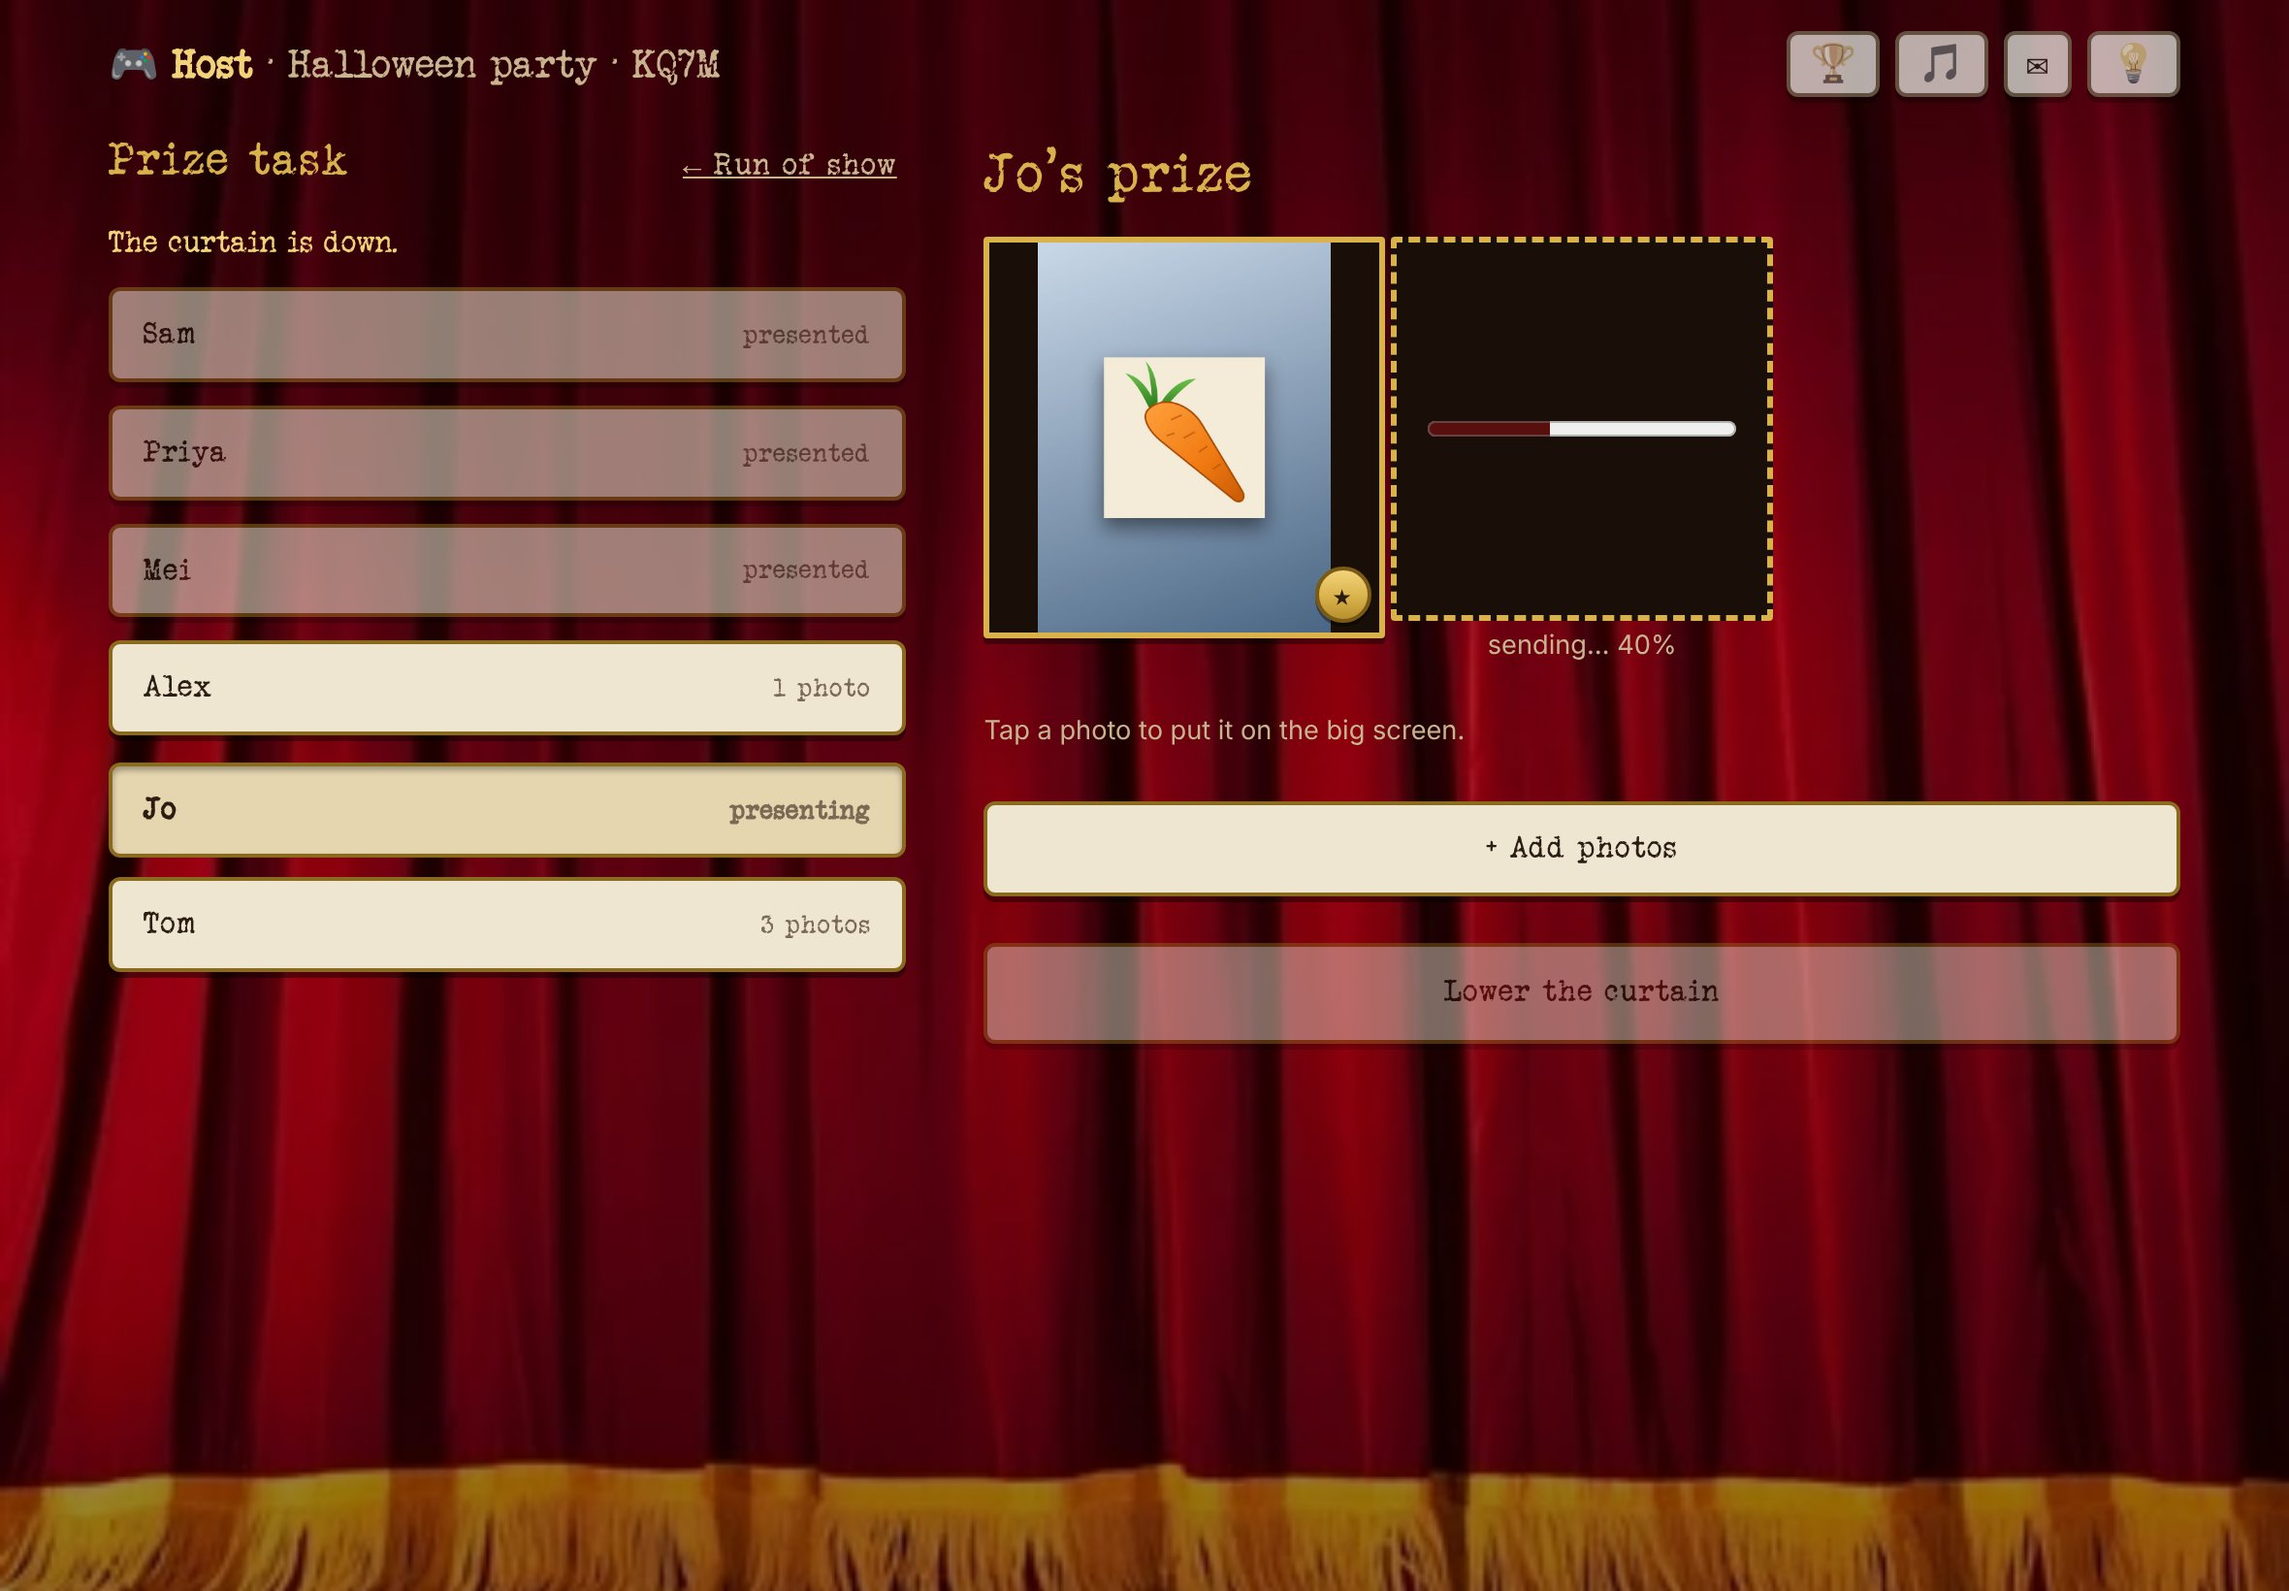
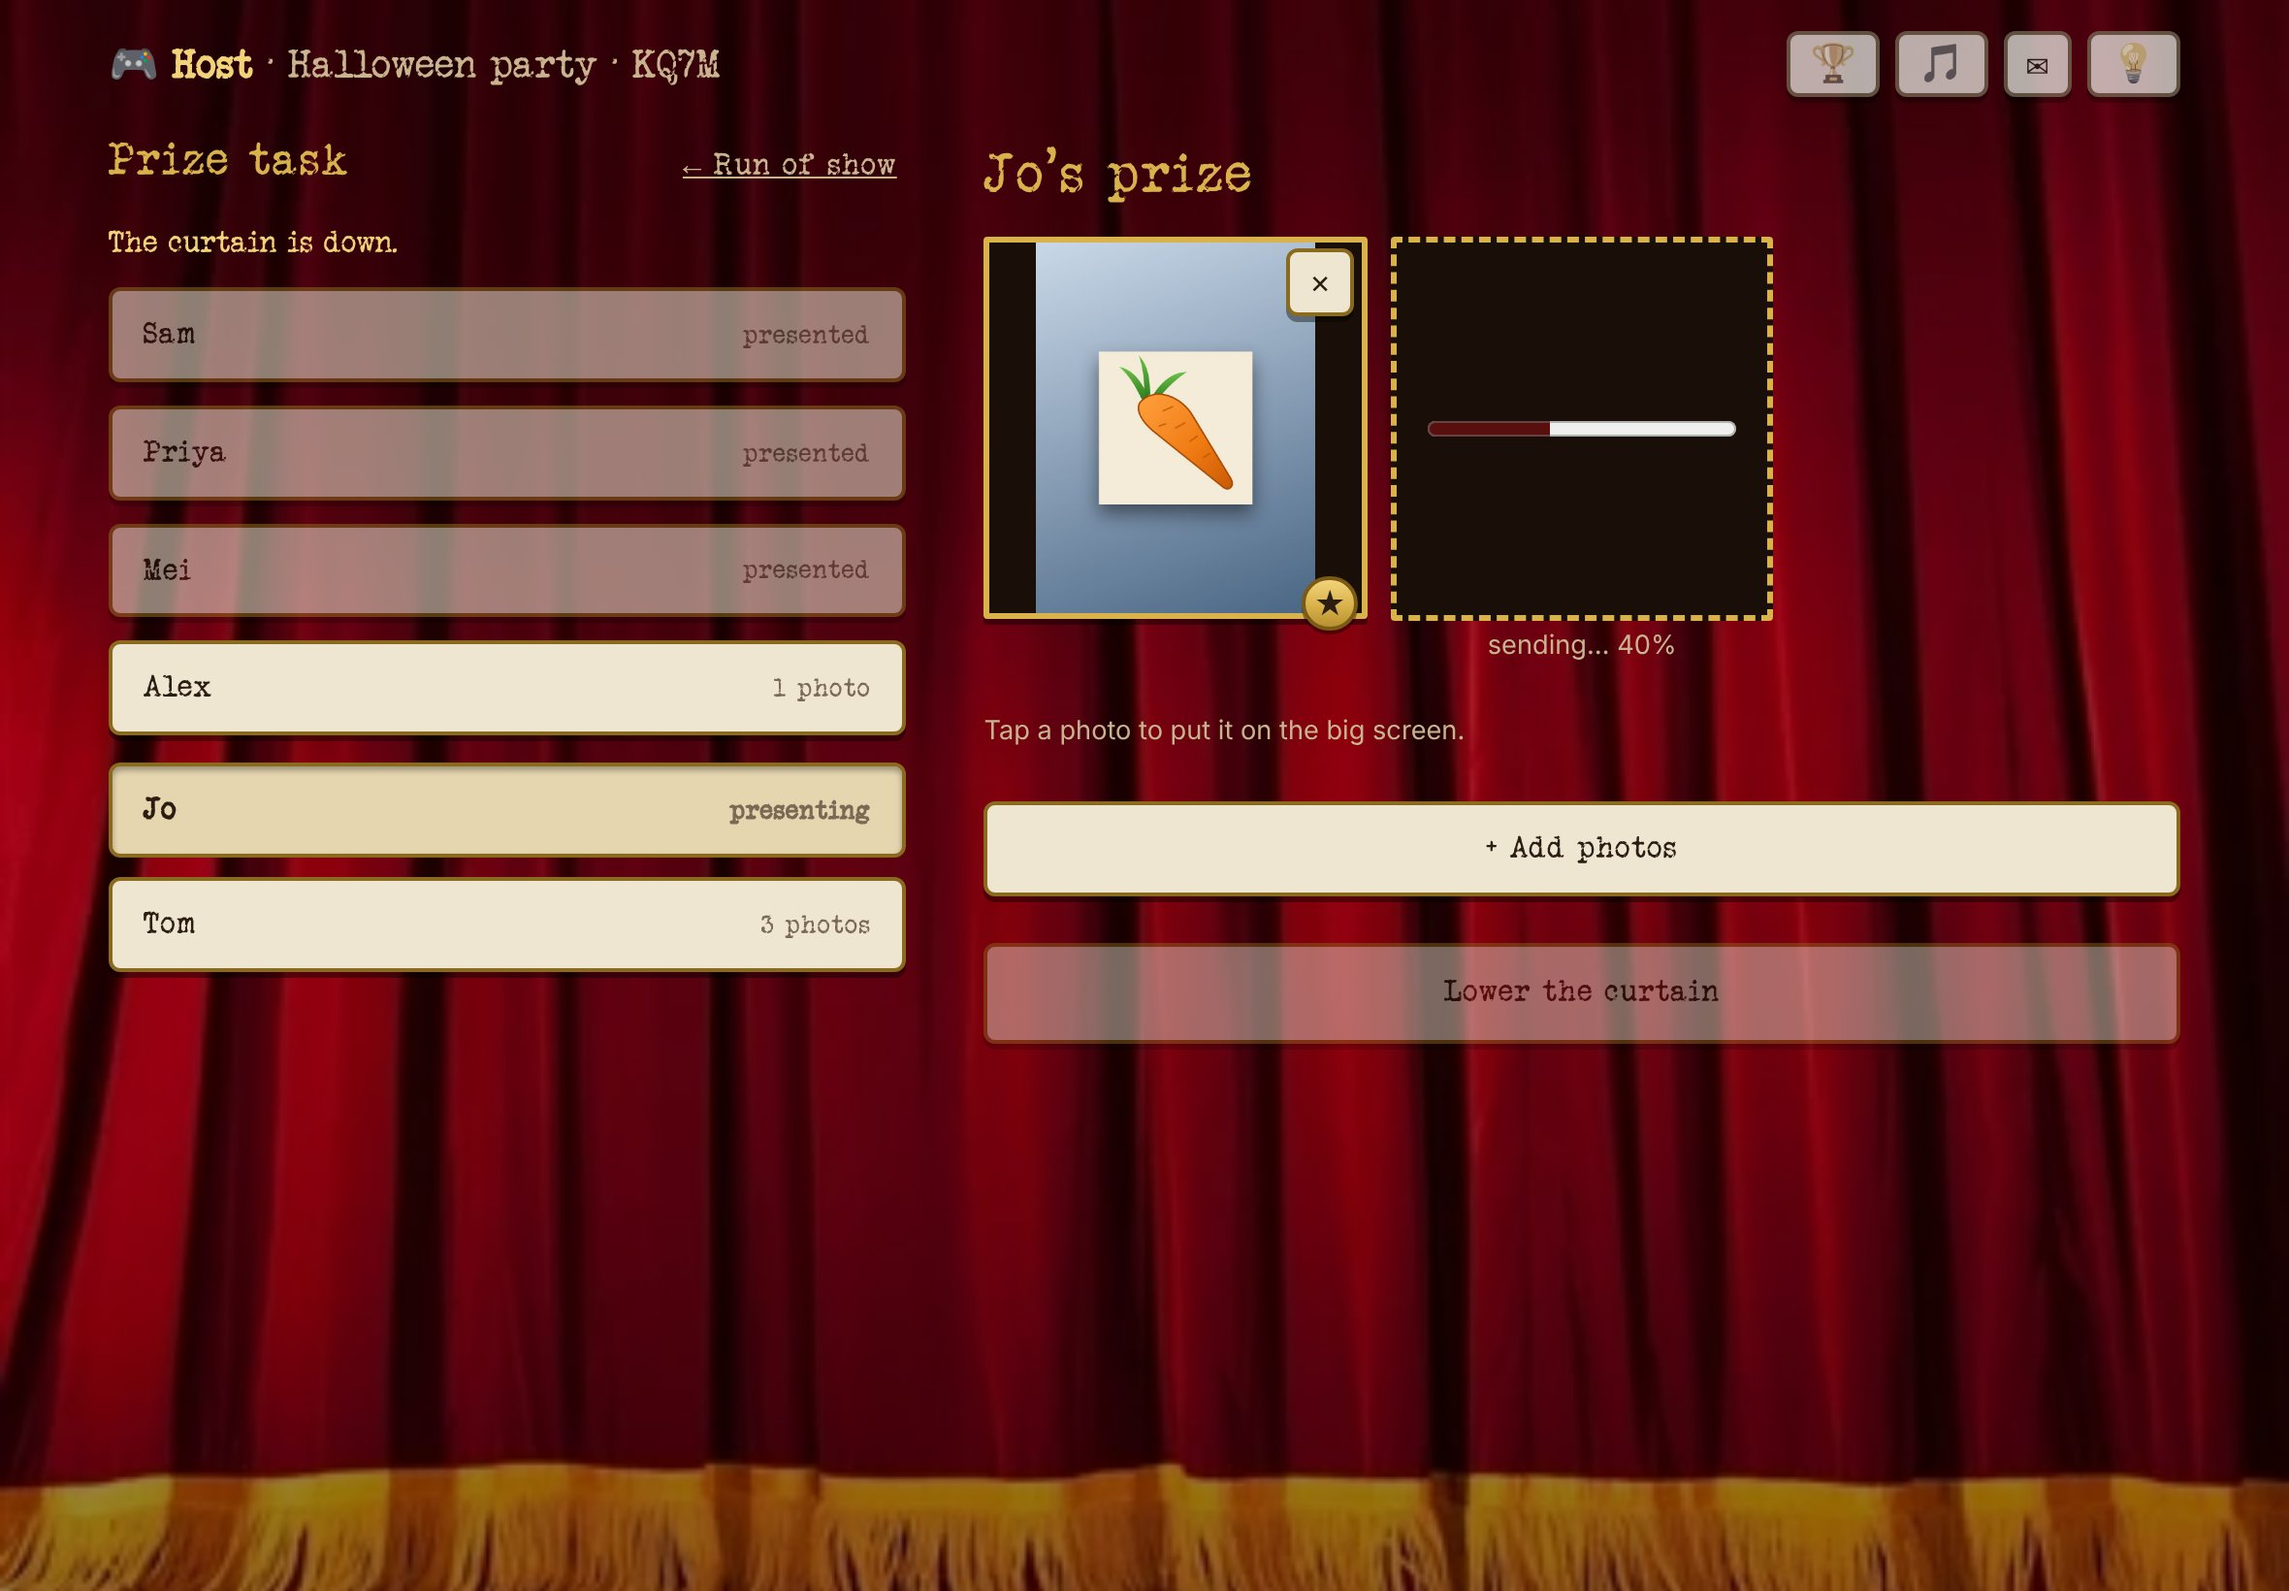
Prize task: the host can remove a photo and move the star
Claude-Session: https://claude.ai/code/session_014ghUjXRQwwSCMqfFBR6KAW

Changed region(s): [[0.4331, 0.1555, 0.6186, 0.4043]]

diff --git a/src/games/prize/HostControls.tsx b/src/games/prize/HostControls.tsx
@@ -8,9 +8,11 @@ export interface PrizeEntry { id: string; name: string; photos: string[] }
  * step is. Tapping another name switches straight to them. "+ Add photos" lets the host photograph a
  * prize in the room (only the host can add to a prize once it's presented): new photos join the end,
  * each as a tile with its progress until it's sent, so the ★ stays on the guest's first. A prize with
- * no photos gets its first, and its ★, this way.
+ * no photos gets its first, and its ★, this way. The host can also tidy a prize: ✕ removes a photo (asking
+ * first, since it's the guest's; never the one on the big screen), and ☆ on any other photo moves the ★
+ * to it, which makes it the first.
  */
-export function PrizePresenting({ entries, presenting, presented, up, sending = [], onPick, onShow, onAdd, onLower }: {
+export function PrizePresenting({ entries, presenting, presented, up, sending = [], onPick, onShow, onAdd, onRemove, onStar, onLower }: {
   entries: PrizeEntry[];
   presenting?: string;
   presented: Record<string, boolean>;
@@ -21,6 +23,9 @@ export function PrizePresenting({ entries, presenting, presented, up, sending = 
   onPick: (id: string) => void;
   onShow: (id: string, index: number) => void;
   onAdd: (id: string) => void;
+  onRemove: (id: string, index: number) => void;
+  /** Moves the ★ to this photo, making it the prize's first. */
+  onStar: (id: string, index: number) => void;
   onLower: () => void;
 }) {
   const current = entries.find((e) => e.id === presenting);
@@ -57,10 +62,15 @@ export function PrizePresenting({ entries, presenting, presented, up, sending = 
                 const isUp = up?.id === current.id && up.index === i;
                 return (
                   <li key={url}>
-                    <button className={isUp ? "active" : undefined} aria-pressed={isUp} aria-label={`Show photo ${i + 1}`} onClick={() => onShow(current.id, i)}>
-                      <img src={url} alt="" />
-                      {i === 0 && <span className="star" aria-hidden>★</span>}
-                    </button>
+                    <div className="prize-preview">
+                      <button className={isUp ? "active" : undefined} aria-pressed={isUp} aria-label={`Show photo ${i + 1}`} onClick={() => onShow(current.id, i)}>
+                        <img src={url} alt="" />
+                      </button>
+                      <button className="x" disabled={isUp} aria-label={`Remove photo ${i + 1}`}
+                        onClick={() => confirm(`Remove this photo from ${current.name}'s prize?`) && onRemove(current.id, i)}>✕</button>
+                      {i === 0 ? <span className="star" role="img" aria-label="Main photo">★</span>
+                        : <button className="unstar" aria-label={`Make photo ${i + 1} the main photo`} onClick={() => onStar(current.id, i)}>☆</button>}
+                    </div>
                     <span className="muted small">{isUp ? "on the big screen" : " "}</span>
                   </li>
                 );

diff --git a/src/styles.css b/src/styles.css
@@ -415,11 +415,15 @@ label { display: grid; gap: 0.3rem; color: var(--muted); }
 @media (min-width: 900px) { .prize-host { grid-template-columns: minmax(0, 1fr) minmax(0, 1.5fr); column-gap: 2.5rem; align-items: start; } }
 .prize-previews { list-style: none; margin: 0; padding: 0; display: grid; grid-template-columns: repeat(3, minmax(0, 1fr)); gap: 0.75rem; }
 .prize-previews li { display: grid; gap: 0.25rem; justify-items: center; }
-.prize-previews button { position: relative; width: 100%; aspect-ratio: 1; padding: 0; background: #1a0f08; border: 3px solid var(--gold); border-radius: 2px; }
+.prize-preview { position: relative; width: 100%; }
+.prize-previews button:first-child { width: 100%; aspect-ratio: 1; padding: 0; background: #1a0f08; border: 3px solid var(--gold); border-radius: 2px; }
 .prize-previews img { width: 100%; height: 100%; object-fit: contain; display: block; }
 /* a photo the host is adding: an empty tile with its progress until it's sent */
 .prize-sending { width: 100%; aspect-ratio: 1; display: grid; place-items: center; padding: 1rem; box-sizing: border-box; background: #1a0f08; border: 3px dashed var(--gold); border-radius: 2px; }
 /* the photo on the big screen: gold, like the stage step that's on */
+.prize-previews .x { position: absolute; top: 0.4rem; right: 0.4rem; width: 2.2rem; height: 2.2rem; padding: 0; display: grid; place-items: center; }
+/* ☆ sits where the ★ would: tapping it moves the ★ here */
+.prize-previews .unstar { position: absolute; bottom: 0.3rem; right: 0.3rem; width: 2rem; height: 2rem; padding: 0; display: grid; place-items: center; border-radius: 50%; font-size: 1.1rem; }
 .prize-previews button.active { border-color: var(--gold-edge); box-shadow: 0 0 0 4px var(--gold-bright), 0 0 16px var(--gold-bright); }
 /* the main photo, the one the winner's haul shows: gold, since it's the chosen one */
 .prize-previews .star, .prize-picks .star { position: absolute; bottom: 0.3rem; right: 0.3rem; width: 1.8rem; height: 1.8rem; display: grid; place-items: center; border-radius: 50%; background: var(--gold-gradient); border: 2px solid var(--gold-edge); color: var(--ink); font-size: 1rem; box-shadow: 0 2px 0 #0006; pointer-events: none; }

diff --git a/docs/redesign-decisions.md b/docs/redesign-decisions.md
@@ -239,6 +239,7 @@ Each contestant brings a prize; the winner takes the whole haul. Today the Prize
 | A prize picked (host) | On a wide iPad: the list on the left, and "Priya's prize" on the right with her photos as large previews in her order, ★ on the first. "Tap a photo to put it on the big screen." Then a paper "+ Add photos" and "Lower the curtain" (disabled while nothing is up). No gold until a photo is on the big screen, which then gets the gold ring. Tapping another name switches straight to them. On a phone the two stack. *Proposed.* | A separate screen per contestant (Before & After's): jumping from one guest to another would need a trip back to the list. |
 | A photo up | Tapping a preview hangs that photo in the gold frame on the big screen, labelled "prize · Priya", as a headshot hangs. On the remote it gets the gold ring and "on the big screen", the line above the list reads "On the big screen: Priya's prize, photo 2", and "Lower the curtain" wakes up. Tapping another preview (or another guest's) switches straight to it. *Proposed.* | Previous / Next on the stage's backup bar: the host picks each photo, so there's no order to step through. |
 | Adding photos (host) | "+ Add photos" opens the iPad's picker (library or camera, several at once). New photos join the end of that prize's photos, each as a dashed tile with its progress ("sending… 40%") until it's sent, then as a preview like the rest. The ★ stays on the guest's first photo; a prize with no photos gets its first, and its ★, this way. *Proposed.* | |
+| Tidying a prize (host) | Each preview has a small paper ✕ in its top corner: it asks "Remove this photo from Priya's prize?" first, since the photo is the guest's, and is disabled on the photo that's on the big screen. Every photo but the first has a ☆ where the ★ would be: tapping it moves the ★ there, making it the prize's first photo and its photo in the haul. Tapping the photo itself still puts it on the big screen. *Proposed.* | No removing or moving the ★ for the host (my first pick): Jeffrey wants to be able to fix a prize on the spot. Dragging to reorder, as guests do: the host only needs to choose the main photo, and a drag on the iPad mid-show is easy to fumble. |
 | Choosing (phone) | A "🎁 Your prize" card under the "✓ You're in" card: a "Your prize" placeholder, "Not submitted yet. Add one or more photos of your prize.", one full-width paper "Add photos" button (several at once), then "Only the host sees them until your prize is presented. You can change them until then." No gold until something is picked. | "Choose photos" and "Choose a video" side by side (the first version, while videos were in). One "Choose photos or a video" button: the either/or rule would only show up as an error after picking. Photos' two equal buttons, "📷 Take a photo" and "Choose photos": on iPhone the second already offers Take Photo in its own menu, so the first only saved a tap. |
 | Checking the picks (phone) | The picked photos replace the placeholder as whole thumbnails on a dark mat, three to a row. Each has the run of show's ≡ in one top corner and a small paper ✕ in the other. ≡ drags the photo to a new place (it goes faint while dragged, like a dragged task), and the host's previews follow that order. The first photo is the prize's one photo in the winner's haul, marked with a small gold ★ in its bottom-right corner, which moves with whichever photo is first. The last tile is a dashed "+ Add more", where the next photo will land. Then "4 photos, not submitted yet. Are these the right ones? Drag ≡ to change the order.", the gold Submit, and the same who-sees-it line. Removing the last photo goes back to the empty card. *Proposed.* | Cropped square thumbnails: the style guide never crops media, and a crop could hide the prize. "Add more" as a separate button under the grid: the tile shows where the new photo will go. No reordering (the first proposal, since the host picks what to show): Jeffrey wants guests to set the order. Dragging the whole photo: a thumb landing on a photo would grab it instead of scrolling the page. Tapping a thumbnail to see it big: the phone's own picker already shows each photo large. "The first one stands for your prize at the end of the night." in the hint: too wordy. A bigger first tile: the grid would jump around while dragging into first place. |
 | Sending (phone) | Photos' sending state as is: the progress bar takes Submit's place, "Submitting… 40%", "Keep this screen open until it's done.", Cancel; a failed send says nothing was submitted, with "Try again". All the photos go as one submission. | |

diff --git a/docs/screens/README.md b/docs/screens/README.md
@@ -75,7 +75,7 @@ Scoreboard (taken on 2026-10-12, from the real components with made-up sessions;
 | `prize-player-check.jpg` | Prize task: checking the picks before submitting, thumbnails with ≡ and ✕, the first photo starred ★ for the haul, "+ Add more", gold Submit (in design; stand-in photos) |
 | `prize-player-submitted.jpg` | Prize task: the receipt after submitting, "✓ Submitted", the photos in order with ★, "Change my photos" (in design; stand-in photos) |
 | `prize-host-picked.jpg` | Prize task on the iPad: the contestants in no set order beside Priya's prize, her photos as previews with ★, nothing on the big screen yet (in design; stand-in photos) |
-| `prize-host-up.jpg` | Prize task on the iPad with Priya's second photo on the big screen: gold ring and "on the big screen", Lower the curtain enabled (in design; stand-in photos) |
+| `prize-host-up.jpg` | Prize task on the iPad with Priya's second photo on the big screen: gold ring and "on the big screen", ✕ to remove a photo and ☆ to move the ★, Lower the curtain enabled (in design; stand-in photos) |
 | `prize-main-photo.jpg` | Main screen: one prize photo hung in the gold frame, labelled "prize · Priya" (in design; stand-in photo) |
 | `main-prize-haul.jpg` | Main screen at the end of the party: "Prize Haul" across the top, the winner's headshot in the centre with "Priya is the winner!" and every prize's ★ photo hung around it with "from Sam" placards (in design; stand-in photos) |
 | `main-prize-haul-hanging.jpg` | The same haul mid-way through hanging, the prizes going up one by one from the centre outwards (in design) |
